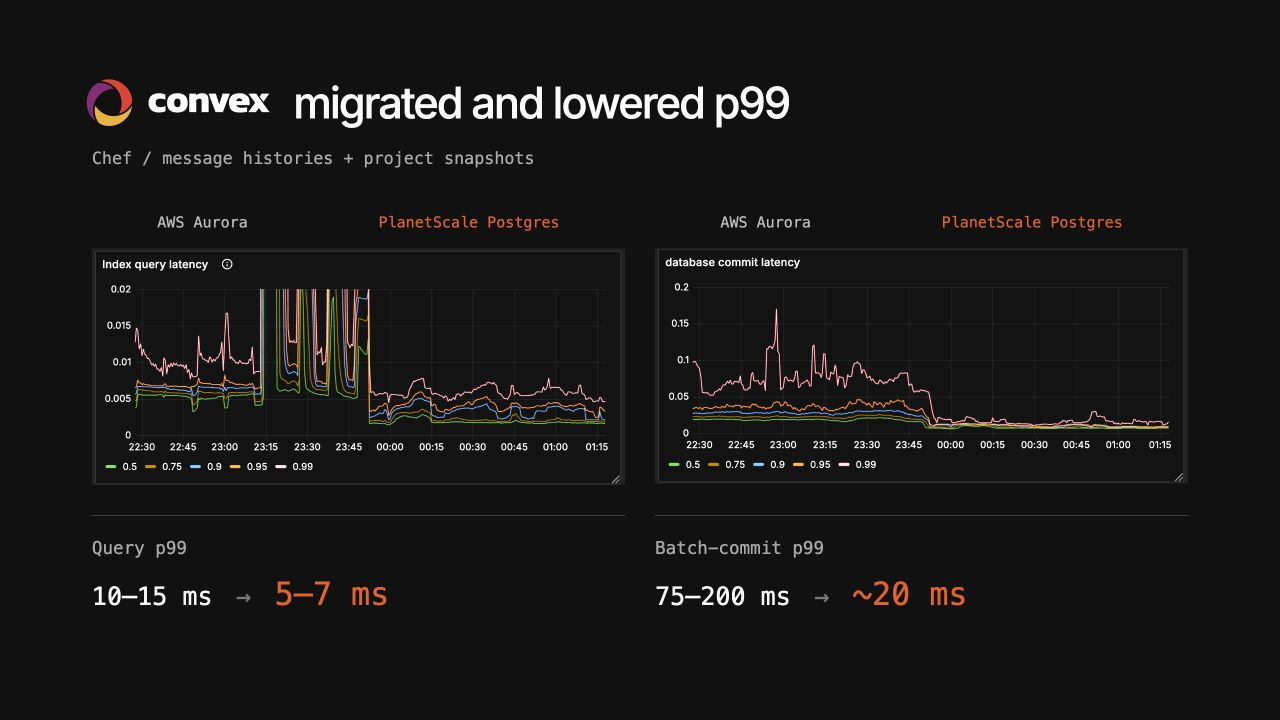
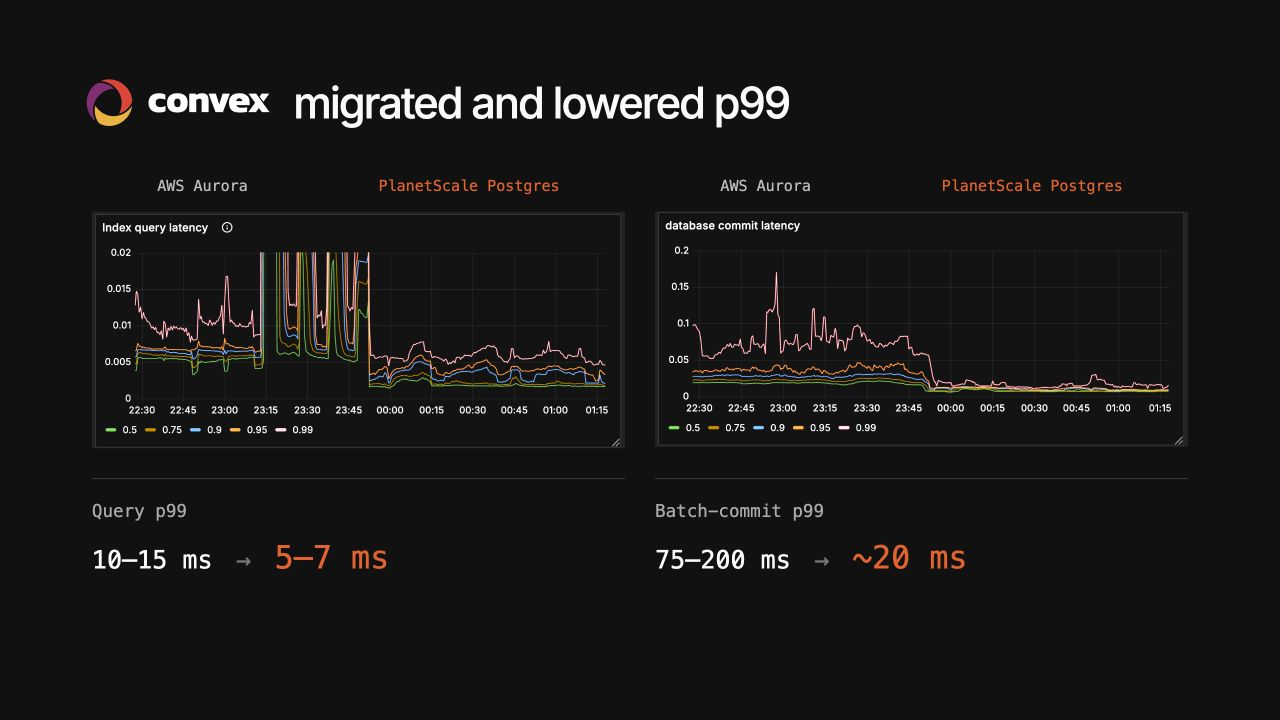
Remove Convex workload subtitle

diff --git a/build_content.py b/build_content.py
@@ -175,7 +175,7 @@ slides=[
  dict(id='neki',label='Neki: Horizontal Scaling for Postgres',theme='neki',html=f'''<div class="neki-heading"><h2>Neki: Horizontal Scaling for Postgres</h2><div class="neki-lockup"><img src="assets/neki-cat.svg" alt="Neki"></div></div><div class="neki-topology">{neki}</div>''',notes="1:15. “Neki is our sharded Postgres architecture. Every shard is real Postgres, with routing and operations managed as one database.” Walk from the application to the router, then one shard group, then the control plane. Sidecars pool connections; shard primaries and replicas carry data. The diagram represents replicated HA shard groups, not the primary-only benchmark on the next slide. Say that Neki is available in Platform Preview as of the verified documentation on 27 September 2026; it is not covered by an SLA. The public site's “now available” wording does not mean general availability. Cross-shard transactions remain listed as coming soon. Evaluate shard keys, query/transaction compatibility and the transition from the current database with the team. Do not imply an automatic in-place conversion from ordinary PlanetScale Postgres. The immediate sale remains hosted Postgres on Metal. Transition: “The benchmark demonstrates how far this architecture can scale for a defined workload.” Sources: https://neki.dev/ ; https://planetscale.com/docs/neki ; https://planetscale.com/blog/the-architecture-of-neki ."),
  dict(id='neki-scale',label='Neki: 118.5M queries per second',theme='neki neki-scale',html=f'''<div class="neki-heading"><h2><span class="yellow">118.5M</span> queries / second</h2><span class="neki-wordmark">[ NEKI ]</span></div><div class="scale-layout"><div><div class="scale-chart">{scale}</div><p class="neki-workload">Read-only point selects / Primary-only shards</p></div><div class="scale-metrics"><div><strong>1.22 <span>PiB</span></strong><p>data</p></div><div><strong>512</strong><p>shards</p></div><div><strong>6.06 <span>ms</span></strong><p>router p99</p></div></div></div>''',notes="1:00. “The published Neki run sustained 118.5 million queries per second across 512 shards over a 1.22 PiB dataset.” Follow the 5-, 50-, and 512-shard series and stop. Exact QPS: 999,624; 9,923,900; 118,538,803. Both axes are logarithmic. Workload: read-only, one-row primary-key point selects sent to a single shard. The measured configuration had 512 primary-only shards and 480 routers, without replicas or a failover event, for 16 minutes. It does not establish write performance or HA behavior. The 6.06 ms p99 is at the router; client p99 was 13.95 ms. These metrics do not share the TPCC workload or Vitalize workload and should not be compared on a common chart. Transition: “For your team, the next step is assessing today's Postgres workload and planning the migration.” Source: https://planetscale.com/blog/118-million-queries-per-second-on-neki ."),
  dict(id='migration',label='Your migration with our infrastructure team',theme='migration',html=f'''<h2>Migrate with our infrastructure team</h2><div class="migration-diagram">{migration}</div><div class="migration-steps"><div><span>01</span><strong>Assess</strong><p>Schema, extensions, workload</p></div><div><span>02</span><strong>Rehearse</strong><p>Replication, p95 / p99, recovery</p></div><div><span>03</span><strong>Cut over</strong><p>Validate, switch, monitor</p></div></div><div class="migration-close"><strong>Technical discovery + migration assessment</strong><span>Your team + our database engineers</span></div>''',notes="2:30. “We start with your existing Postgres, assess the dependencies, and rehearse the move with your team.” The source serves traffic during the initial copy and change replication. Validate data and critical queries before agreeing on a cutover. Assess schemas, extensions, write rate, permissions, auth dependencies, connection patterns, recovery requirements, and networking. Compare a representative workload's p95/p99 and throughput. The final synchronization, application connection switch, downtime, and rollback strategy depend on source configuration and any target-side writes. This is a workflow, not a claim that all providers support the same automated importer or universal zero downtime. Close: “Can we schedule a technical discovery with your database and infrastructure leads to scope the migration assessment?” Establish compatibility questions, target deployment, success criteria, and the work needed for a migration plan. If relevant, Autumn reports a two-day migration with seconds of cutover downtime and direct help from PlanetScale; that is an example, not a delivery promise. Source: https://useautumn.com/blog/migrating-to-planetscale ; other references in docs/customer-case-studies.md. Core pitch time: 11 minutes 30 seconds, plus short buyer exchanges."),
- dict(id='convex',label='Convex migrated and lowered p99',theme='customer-case convex',html=f'''<div class="case-heading convex-heading"><div class="convex-brand" aria-label="Convex"><img class="convex-symbol" src="assets/convex-symbol-color.svg" alt=""><img class="convex-wordmark" src="assets/convex-wordmark-white.svg" alt="Convex"></div><h2>migrated and lowered p99</h2></div><p class="case-context">Chef / message histories + project snapshots</p><div class="convex-curves">{convex_plot}</div>''',notes="1:15. Convex provides backend infrastructure for developers. Its Chef product stores message histories and project snapshots in a Convex backend. The team moved that workload from AWS Aurora to PlanetScale for Postgres. Query p99 moved from a noisy 10–15 ms to a steadier 5–7 ms; batch-commit p99 had spiked between 75 and 200 ms and subsequently stayed around 20 ms. Both panels display the unchanged original customer screenshot, cropped only at the panel boundary through CSS. A CSS invert/hue-rotation filter adapts its light background to dark mode. All percentile lines, original axis values, and legends are preserved. The source chart vertical axes are in seconds; the numeric p99 summaries below are in milliseconds and use the article’s explicit reported ranges. The original query chart clips peaks above 0.02 seconds. Provider labels indicate the before/after portions around the visible step near 23:55, not a separately verified cutover timestamp. Each chart has its own vertical scale. Preserve the approximate qualifier on 20 ms. Do not imply that all Convex workloads achieved these results, identify the prior Aurora engine without evidence, or claim a controlled hardware comparison. The article discusses Metal as the motivation but does not specify the measured cluster tier; label the destination PlanetScale for Postgres. Gong structure: infrastructure buyer's need, one named production workload, the change, and the measured outcome. Ask which tail-latency path matters most to the prospect. Source: https://news.convex.dev/powered-by-planetscale-for-postgres/ . This candidate slide is appended for review; the original Vitalize slide remains."),
+ dict(id='convex',label='Convex migrated and lowered p99',theme='customer-case convex',html=f'''<div class="case-heading convex-heading"><div class="convex-brand" aria-label="Convex"><img class="convex-symbol" src="assets/convex-symbol-color.svg" alt=""><img class="convex-wordmark" src="assets/convex-wordmark-white.svg" alt="Convex"></div><h2>migrated and lowered p99</h2></div><div class="convex-curves">{convex_plot}</div>''',notes="1:15. Convex provides backend infrastructure for developers. Its Chef product stores message histories and project snapshots in a Convex backend. The team moved that workload from AWS Aurora to PlanetScale for Postgres. Query p99 moved from a noisy 10–15 ms to a steadier 5–7 ms; batch-commit p99 had spiked between 75 and 200 ms and subsequently stayed around 20 ms. Both panels display the unchanged original customer screenshot, cropped only at the panel boundary through CSS. A CSS invert/hue-rotation filter adapts its light background to dark mode. All percentile lines, original axis values, and legends are preserved. The source chart vertical axes are in seconds; the numeric p99 summaries below are in milliseconds and use the article’s explicit reported ranges. The original query chart clips peaks above 0.02 seconds. Provider labels indicate the before/after portions around the visible step near 23:55, not a separately verified cutover timestamp. Each chart has its own vertical scale. Preserve the approximate qualifier on 20 ms. Do not imply that all Convex workloads achieved these results, identify the prior Aurora engine without evidence, or claim a controlled hardware comparison. The article discusses Metal as the motivation but does not specify the measured cluster tier; label the destination PlanetScale for Postgres. Gong structure: infrastructure buyer's need, one named production workload, the change, and the measured outcome. Ask which tail-latency path matters most to the prospect. Source: https://news.convex.dev/powered-by-planetscale-for-postgres/ . This candidate slide is appended for review; the original Vitalize slide remains."),
  dict(id='autumn',label='Autumn: two days to PlanetScale Metal',theme='customer-case autumn',html=f'''<div class="case-heading"><h2>Two days to PlanetScale Metal</h2><img class="autumn-logo" src="assets/autumn.svg" alt="Autumn"></div><p class="case-context">Billing infrastructure / real-time access + credit checks</p><div class="autumn-evidence"><div>{autumn_plot}</div><div class="autumn-migration"><div class="migration-number"><strong>2<span> days</span></strong><p>Migration</p></div><div class="cutover-number"><strong>Seconds</strong><p>Cutover downtime</p></div><div class="migration-assist"><span class="assist-node"></span><p>PlanetScale<br>migration team</p></div></div></div>''',notes="1:15. Autumn provides billing infrastructure for AI companies, including real-time access and credit checks in the request path. Its previous provider had connection-pooling issues and inconsistent latency. The team expected migration to take weeks; it reports completing it in two days with seconds of cutover downtime. PlanetScale's team helped with replication and recommended its pgcopydb fork. General query latency moved from approximately 100 ms to consistently below 10 ms after the move to PlanetScale Metal. These values have no published percentile; do not call them p95 or p99. The previous provider is unnamed. A separate later support engagement involved query/index changes and a p99 improvement from around 200 ms to under 50 ms; that separate optimization is intentionally excluded from this slide. The white bar uses the approximate 100 ms baseline; the dashed orange bar depicts an upper bound of 10 ms, not a measured 10 ms value. Autumn’s original Insights screenshot is a later post-migration view, so it is not presented as the migration before/after comparison. The official current Autumn logo is monochrome; no invented color version is used. Timings are Autumn's experience, not a migration promise. Gong structure: business-critical workload, concerns about switching, assisted migration, observed result. Transition to technical discovery and migration assessment: assess the prospect's dependencies, workload, and cutover needs. Source: https://useautumn.com/blog/migrating-to-planetscale . This candidate slide is appended for review; the existing migration closing slide remains."),
 ]
 (R/'slides.js').write_text('window.PITCH_BRAND = '+json.dumps((R/'assets/planetscale-white.svg').read_text())+';\nwindow.PITCH_SLIDES = '+json.dumps(slides,ensure_ascii=False,indent=2)+';\n')
